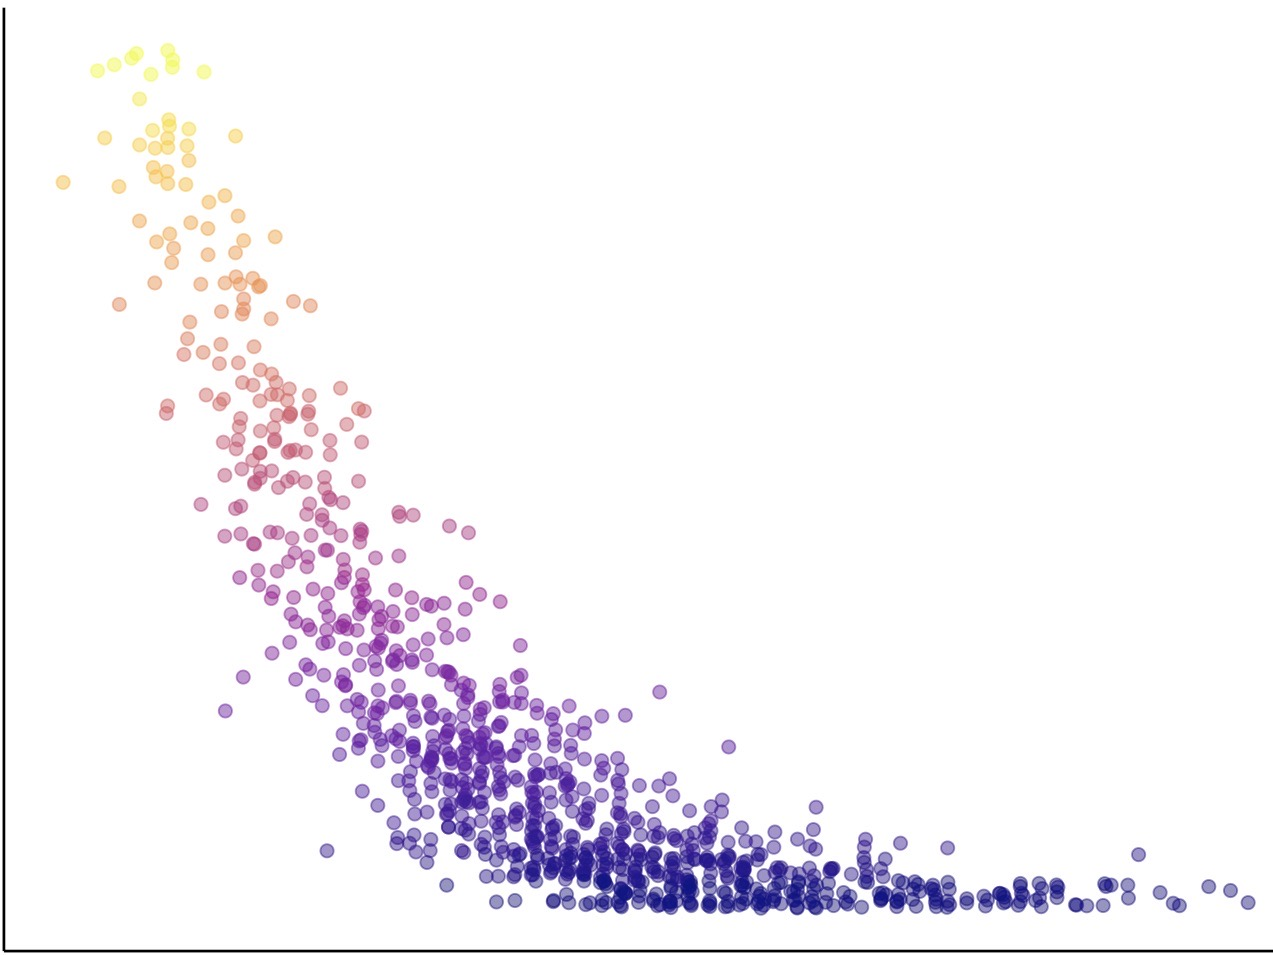
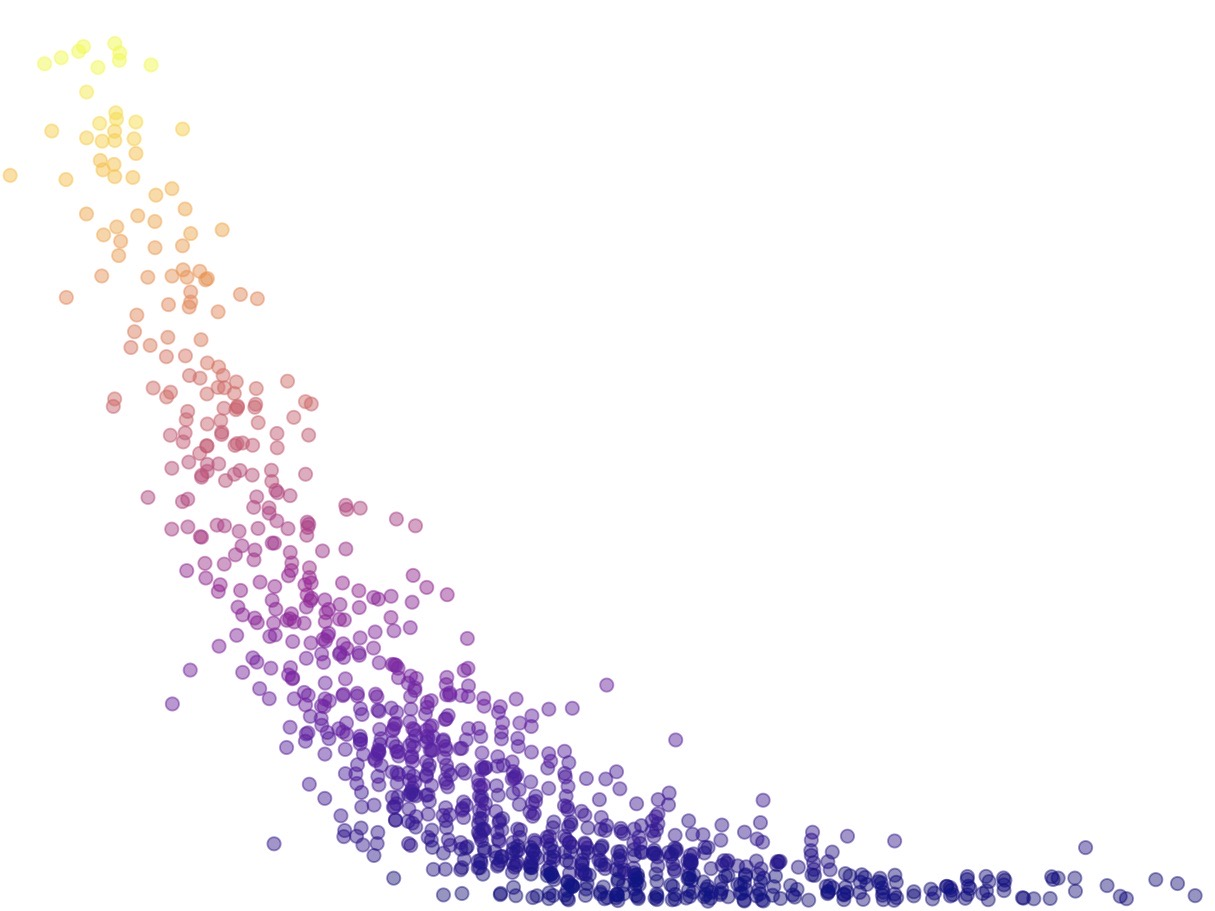
Revert to three image panel

Changed region(s): [[0.0, 0.0307, 1.0, 1.0], [0.2132, 0.9221, 0.2436, 0.9528], [0.1218, 0.7684, 0.1523, 0.7991]]

diff --git a/_pages/about.md b/_pages/about.md
@@ -14,6 +14,8 @@ Prior to Yale, I worked as a Data Scientist for TrueCar, Inc., where I developed
 
 &nbsp;
 
- <p align="center">
-  <img src="https://www.trevorincerti.com/images/fake_lollipop.jpg" width="95%" />
+ <p float="left">
+  <img src="https://www.trevorincerti.com/images/solar_kamisu.jpeg" width="32%" />
+  <img src="https://www.trevorincerti.com/images/plot.jpeg" width="32%" />
+  <img src="https://www.trevorincerti.com/images/meti.jpeg" width="32%" /> 
 </p>
